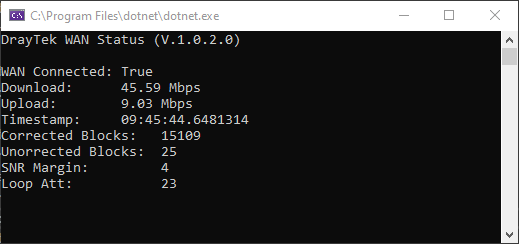
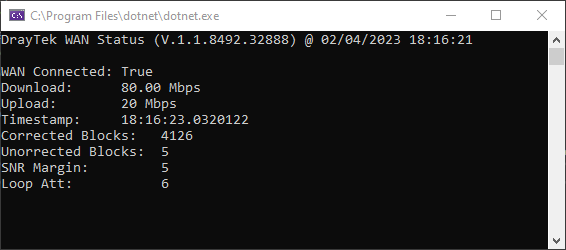
Fixes V1.1.0

diff --git a/DrayTek WAN Status/Datastorage.cs b/DrayTek WAN Status/Datastorage.cs
@@ -56,16 +56,21 @@ namespace DrayTek_WAN_Status {
         }
 
         void WriteToDisk(string path, string content, string header = null) {
-            if (!File.Exists(path)) {
-                if (header != null) {
+            if (!File.Exists(path))
+            {
+                if (header != null)
+                {
                     File.WriteAllText(path, header + Environment.NewLine);
                 }
-                else {
+                else
+                {
                     File.Create(path);
                 }
-            } else
-
-            File.AppendAllText(path, content + Environment.NewLine);
+            }
+            else
+            {
+                File.AppendAllText(path, content + Environment.NewLine);
+            }
         }
 
         #endregion

diff --git a/DrayTek WAN Status/Program.cs b/DrayTek WAN Status/Program.cs
@@ -17,7 +17,7 @@ namespace DrayTek_WAN_Status {
         public static Datastorage _storage;
 
         static void Main(string[] args) {
-            Console.WriteLine($"DrayTek WAN Status (V.{Assembly.GetEntryAssembly().GetName().Version})");
+            Console.WriteLine($"DrayTek WAN Status (V.{Assembly.GetEntryAssembly().GetName().Version}) @ {DateTime.Now}");
             Console.WriteLine();
 
             InitConfiguration();
